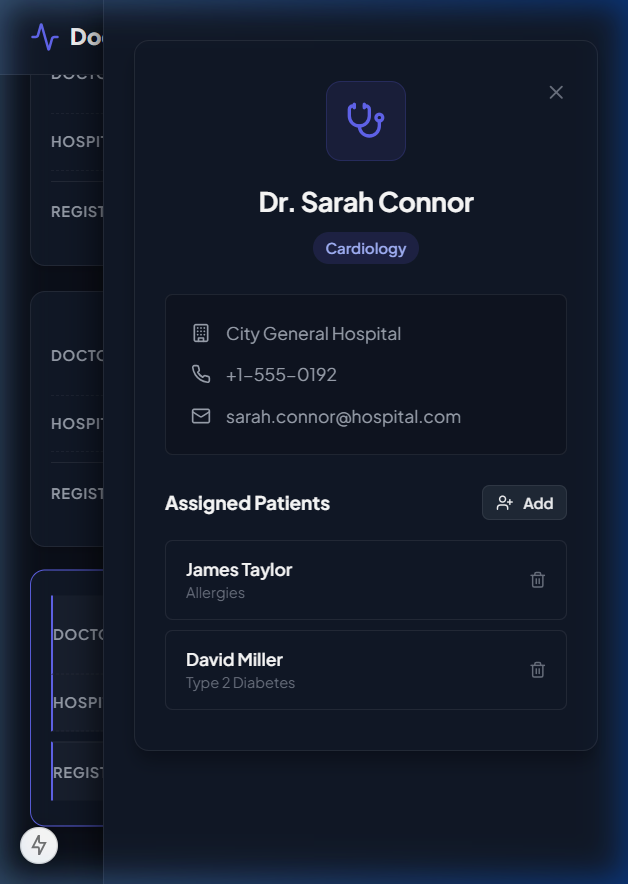
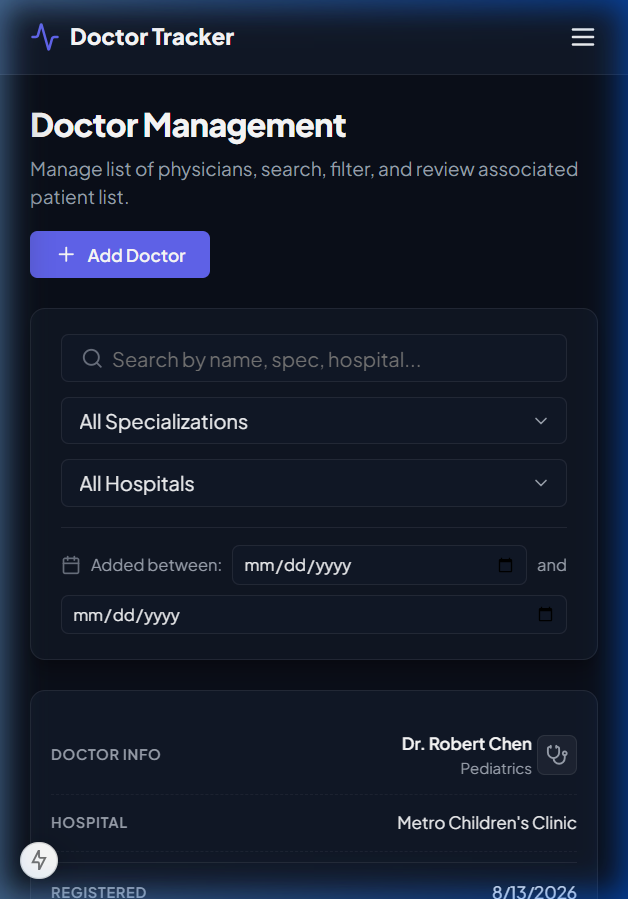
fix(frontend): implement mutual exclusivity for split-view layout on mobile and tablet viewports to resolve overlapping conflicts

diff --git a/src/app/globals.css b/src/app/globals.css
@@ -1352,6 +1352,17 @@ select.filter-control {
   }
 }
 
+@keyframes fadeIn {
+  from {
+    opacity: 0;
+    transform: translateY(10px);
+  }
+  to {
+    opacity: 1;
+    transform: translateY(0);
+  }
+}
+
 /* 2. Tablet & Smaller Device Views (max-width: 1024px) */
 @media (max-width: 1024px) {
   .page-header {
@@ -1403,6 +1414,46 @@ select.filter-control {
 
   .data-table {
     min-width: 900px !important; /* Forces scrollbar to maintain tabular readability and button access */
+  }
+
+  /* Doctors split-view mutual exclusivity on tablet and mobile viewports */
+  .split-view-container {
+    display: block !important;
+    position: relative !important;
+  }
+
+  .split-view-container.has-selected-doctor .list-panel {
+    display: none !important;
+  }
+
+  .split-view-container.has-selected-doctor .detail-panel {
+    display: block !important;
+    position: relative !important;
+    top: 0 !important;
+    right: 0 !important;
+    bottom: 0 !important;
+    left: 0 !important;
+    width: 100% !important;
+    max-width: 100% !important;
+    height: auto !important;
+    min-height: 100% !important;
+    background-color: transparent !important;
+    border: none !important;
+    box-shadow: none !important;
+    padding: 0 !important;
+    margin: 0 !important;
+    overflow-y: visible !important;
+    z-index: 1 !important;
+    animation: fadeIn 0.2s ease-out forwards !important;
+  }
+
+  .split-view-container:not(.has-selected-doctor) .detail-panel {
+    display: none !important;
+  }
+
+  .split-view-container:not(.has-selected-doctor) .list-panel {
+    display: block !important;
+    width: 100% !important;
   }
 }
 

diff --git a/src/app/doctors/page.tsx b/src/app/doctors/page.tsx
@@ -366,7 +366,7 @@ export default function DoctorsPage() {
         </div>
 
         {/* Main Grid Split View */}
-        <div className="split-view-container">
+        <div className={`split-view-container ${selectedDoctor ? 'has-selected-doctor' : ''}`}>
           {/* Left Panel: Doctors Table */}
           <div className="list-panel">
             {error && (
